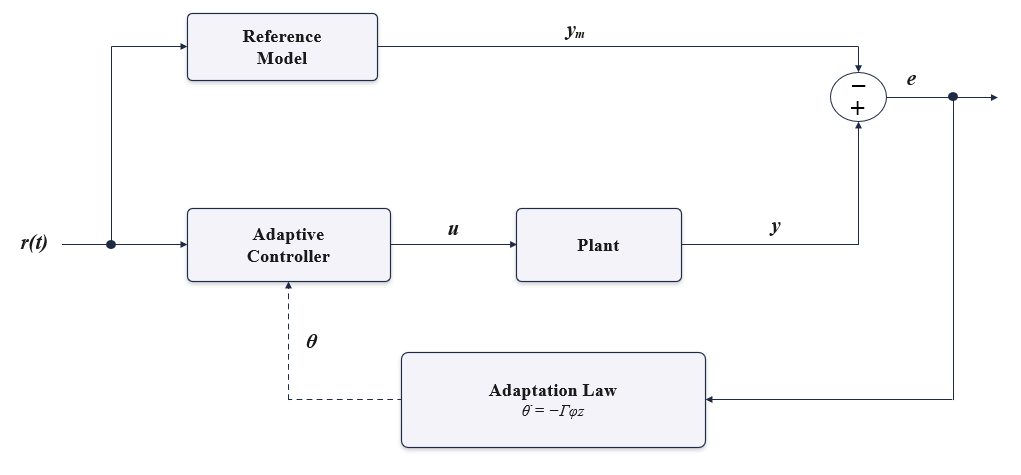
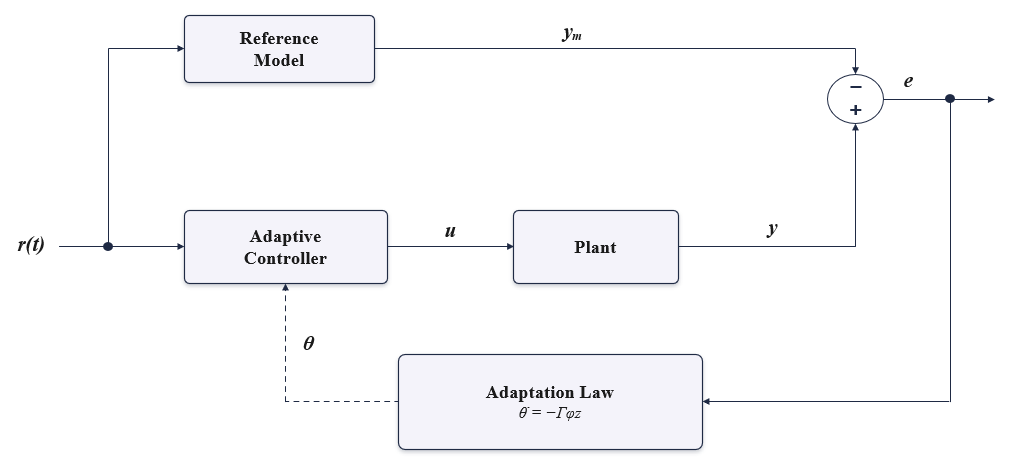
Squashed 'report/' changes from 492d7ce..cffeefa
cffeefa Update on Overleaf.
912a7b0 Sync report to Overleaf

git-subtree-dir: report
git-subtree-split: cffeefadd10191742d9056aa08fb645937c5d02a

diff --git a/hw/sections/section2.tex b/hw/sections/section2.tex
@@ -20,7 +20,7 @@ where \(r(t)\) is the reference input and the constants \(\alpha_0,\alpha_1,\alp
 \begin{figure}[H]
     \centering
     \includegraphics[width=0.9\textwidth]{figs/hw/MRAC_diagram.png}
-    \caption{Model-reference adaptive control architecture. The reference model defines the desired response $y_m(t)$; the adaptive controller drives $y(t)\to y_m(t)$; the adaptation law tunes $\hat\theta$ online from the filtered error.}
+    \caption{Model-reference adaptive control architecture.}
     \label{fig:mrac_block}
     \end{figure}
 
@@ -44,7 +44,7 @@ y^{(3)}
 =
 -\theta^T\phi
 +
-cu,
+cu
 \label{eq:plant_parametric}
 \end{equation}
 
@@ -53,7 +53,7 @@ where the unknown parameter vector is:
 \theta =
 \begin{bmatrix}
 a_1 & a_2 & a_3 & b_1 & b_2 & b_3
-\end{bmatrix}^{T},
+\end{bmatrix}^{T}
 \end{equation}
 
 and the known regression vector is:
@@ -71,7 +71,7 @@ The tracking error is defined as:
 \begin{equation}
 e = y-y_m.
 \end{equation}
-Following the adaptive-control design for nonlinear systems of any order, a filtered tracking error is defined. Since the plant is third-order, the filtered error is chosen as:
+Following the adaptive-control design for nonlinear systems, a filtered tracking error is defined. Since the plant is third-order, the filtered error is chosen as:
 \begin{equation}
 z
 =
@@ -79,7 +79,7 @@ z
 +
 \lambda_2\dot{e}
 +
-\lambda_1 e
+\lambda_1 e.
 \label{eq:filtered_error}
 \end{equation}
 
@@ -125,8 +125,9 @@ y_m^{(3)}
 \lambda_2\ddot{e}
 +
 \lambda_1\dot{e}.
+\label{eq:zdot_definition}
 \end{equation}
-To simplify the controller design, an auxiliary reference signal is defined as:
+To simplify the controller design, we first define the following auxiliary signal:
 \begin{equation}
 y_r^{(3)}
 =
@@ -137,7 +138,7 @@ y_m^{(3)}
 \lambda_1\dot{e}
 \label{eq:yr_definition}
 \end{equation}
-Substituting \eqref{eq:yr_definition} into the expression for \(\dot{z}\) gives:
+Substituting \eqref{eq:yr_definition} into \eqref{eq:zdot_definition} gives:
 \begin{equation}
 \dot{z}
 =
@@ -212,7 +213,7 @@ y_r^{(3)}
 -
 k_z z
 \end{align}
-In this case, we can see that the filtered error dynamics become identical to \eqref{eq:z_dot_compact} as we assumed:
+Using \eqref{eq:z_dot_compact}, the filtered error dynamics become:
 \begin{equation}
 y^{(3)} - y_r^{(3)}
 =
@@ -224,7 +225,21 @@ Therefore, the closed-loop system achieves the desired filtered error dynamics a
 
 \subsubsection*{Adaptive Controller}
 
-In practice, the parameters \(a_i\) and \(b_i\) are unknown. Therefore, the true parameter vector \(\theta\) cannot be used directly and must be replaced by its estimate \(\hat{\theta}\). Using the definition of \(y_r^{(3)}\) from \eqref{eq:yr_definition}, the controller can also be written as:
+In practice, the parameters \(a_i\) and \(b_i\) are unknown. Therefore, the true parameter vector \(\theta\) cannot be used directly and is replaced by its estimate \(\hat{\theta}\). The adaptive control law is chosen as:
+\begin{equation}
+u
+=
+\frac{1}{c}
+\left[
+\hat{\theta}^{T}\phi
++
+y_r^{(3)}
+-
+k_z z
+\right].
+\label{eq:adaptive_control_law}
+\end{equation}
+Using the definition of \(y_r^{(3)}\) from \eqref{eq:yr_definition}, the controller can also be written as:
 \begin{equation}
 u
 =
@@ -249,7 +264,7 @@ We define the parameter estimation error as:
 -
 \theta.
 \end{equation}
-Substituting \eqref{eq:nominal_control_law} into the plant model \eqref{eq:plant_parametric} yields:
+Substituting \eqref{eq:adaptive_control_law} into the plant model \eqref{eq:plant_parametric} gives:
 \begin{align}
 y^{(3)}
 &=
@@ -266,12 +281,9 @@ y_r^{(3)}
 k_z z
 +
 \tilde{\theta}^{T}\phi.
-\label{eq:adaptive_control_law}
 \end{align}
 Using \eqref{eq:z_dot_compact}, the filtered error dynamics become:
 \begin{equation}
-y^{(3)} - y_r^{(3)}
-=
 \dot{z}
 =
 -k_z z
@@ -283,7 +295,7 @@ Compared to the nominal case, an additional term \(\tilde{\theta}^{T}\phi\) appe
 
 \subsection{Adaptation Law}
 
-The parameter estimates are updated online using the adaptation law:
+The parameter estimates are updated online according to the following adaptation law:
 \begin{equation}
 \dot{\hat{\theta}}
 =
@@ -307,7 +319,7 @@ V
 \frac{1}{2}\tilde{\theta}^{T}\Gamma^{-1}\tilde{\theta}.
 \label{eq:lyapunov_candidate}
 \end{equation}
-The first term represents the filtered tracking error energy, and the second term represents the parameter estimation error energy. Since \(\Gamma>0\), the function \(V\) is positive definite with respect to \(z\) and \(\tilde{\theta}\). Differentiating \eqref{eq:lyapunov_candidate} gives:
+The first term measures the filtered tracking error, while the second term measures the parameter estimation error. Since \(\Gamma>0\), the function \(V\) is positive definite with respect to \(z\) and \(\tilde{\theta}\). Differentiating \eqref{eq:lyapunov_candidate} gives:
 \begin{equation}
 \dot{V}
 =
@@ -356,38 +368,49 @@ The last two terms are equal scalars with opposite signs, and therefore they can
 -k_z z^2.
 \label{eq:lyapunov_derivative}
 \end{equation}
-Since $k_z>0$, $\dot V=-k_z z^2\le 0$, so $V$ is non-increasing. As $V\ge 0$ is
-bounded below, $V(t)$ converges to a finite limit; consequently $z$ and
-$\tilde\theta$ are bounded, i.e. $z,\tilde\theta\in\mathcal{L}_\infty$.
+Since \(k_z>0\), it follows that:
+\[
+\dot{V}
+=
+-k_zz^2
+\le0.
+\]
+Therefore, the Lyapunov function never increases with time, which implies that both the filtered error \(z\) and the parameter estimation error \(\tilde{\theta}\) remain bounded. However, since \(\dot{V}\) is only negative semidefinite, this result alone does not prove that \(z(t) \rightarrow 0\). To show that the filtered error converges to zero, Barbalat's lemma is used.
 
-Boundedness alone does \emph{not} imply $z\to 0$, because $\dot V$ is only
-negative \emph{semi}definite (it does not involve $\tilde\theta$). Convergence is
-therefore established with Barbalat's lemma.
+\paragraph{Step 1: Showing that \(z\in\mathcal{L}_2\).}
 
-\paragraph{Step 1: $z\in\mathcal{L}_2$.} Integrating $\dot V=-k_z z^2$,
+Integrating \eqref{eq:lyapunov_derivative} from \(0\) to \(\infty\) gives:
 \begin{equation}
 k_z\int_0^\infty z^2(\tau)\,d\tau = V(0)-V(\infty)<\infty
 \quad\Longrightarrow\quad z\in\mathcal{L}_2 .
 \end{equation}
 
-\paragraph{Step 2: all signals bounded.} The reference model \eqref{eq:reference_model}
-is Hurwitz and driven by the bounded input $r(t)$, so $y_m,\dot y_m,\ddot y_m$ are
-bounded. Because $s^2+\lambda_2 s+\lambda_1$ is Hurwitz and
-$z=\ddot e+\lambda_2\dot e+\lambda_1 e$ is bounded, the error and its derivatives
-$e,\dot e,\ddot e$ are bounded; hence $y=e+y_m$, $\dot y$, $\ddot y$ are bounded,
-and so is the regressor $\varphi=[\ddot y,\ \dot y,\ y,\ \ddot y^{3},\ \dot y^{3},\ \sin y]^{T}$.
+\paragraph{Step 2: Showing that \(\dot{z}\) is bounded.}
 
-\paragraph{Step 3: $\dot z$ bounded.} From \eqref{eq:z_dynamics},
-$\dot z=-k_z z+\tilde\theta^{T}\varphi$. With $z,\tilde\theta,\varphi$ all bounded,
-$\dot z\in\mathcal{L}_\infty$, so $z$ is uniformly continuous.
+The reference model is stable and the reference input \(r(t)\) is bounded. Therefore, the reference model output and its derivatives are also bounded. Since the tracking error and the parameter estimation error are bounded, the plant states remain bounded, which implies that the regressor vector \(\phi\) is bounded.
 
-\paragraph{Conclusion.} Since $z\in\mathcal{L}_2\cap\mathcal{L}_\infty$ and
-$\dot z\in\mathcal{L}_\infty$, Barbalat's lemma yields
+From \eqref{eq:z_dynamics}:
 \begin{equation}
-z(t)\to 0 \qquad\text{as } t\to\infty .
+\dot{z}
+=
+-k_z z
++
+\tilde{\theta}^{T}\phi.
 \end{equation}
 
-When \(z(t)\rightarrow0\), the tracking error satisfies:
+Since \(z\), \(\tilde{\theta}\), and \(\phi\) are all bounded, it follows that \(\dot{z}\) is also bounded.
+
+\paragraph{Step 3: Applying Barbalat's lemma.}
+
+From Step 1, \(z\in\mathcal{L}_2\), and from Step 2, \(\dot{z}\) is bounded. Therefore, by Barbalat's lemma:
+\begin{equation}
+z(t)\rightarrow0
+\qquad
+\text{as}
+\qquad
+t\rightarrow\infty.
+\end{equation}
+When \(z(t)\rightarrow0\), the filtered error satisfies:
 \begin{equation}
 \ddot{e}
 +
@@ -397,16 +420,20 @@ When \(z(t)\rightarrow0\), the tracking error satisfies:
 =
 0.
 \end{equation}
- Since \(\lambda_1,\lambda_2>0\) are chosen to give stable error dynamics, it follows that:
+Since \(\lambda_1\) and \(\lambda_2\) are chosen such that the error dynamics are stable, it follows that:
 \begin{equation}
 e(t)\rightarrow0,
 \qquad
 \dot{e}(t)\rightarrow0.
 \end{equation}
-Finally, since \(e=y-y_m\), convergence of the tracking error implies:
+So the convergence of the tracking error implies:
 \begin{equation}
+e=y-y_m=0
+\quad
+\Rightarrow
+\quad
 y(t)\rightarrow y_m(t).
 \end{equation}
-Thus, the proposed adaptive controller guarantees bounded closed-loop signals and asymptotic tracking of the reference model output. $\blacksquare$
+Thus, the proposed adaptive controller guarantees that all closed-loop signals remain bounded and that the plant output asymptotically tracks the reference model output. \(\blacksquare\)
 
 \bigskip